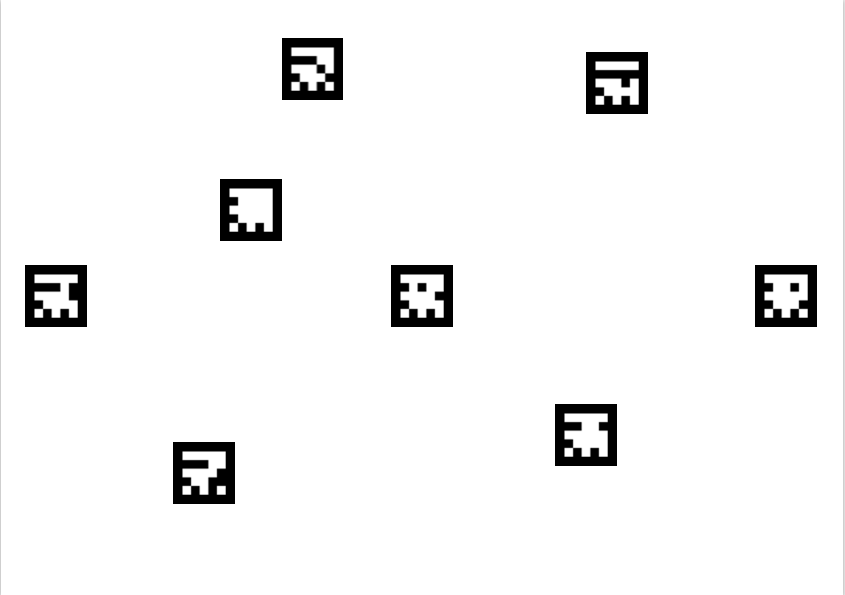
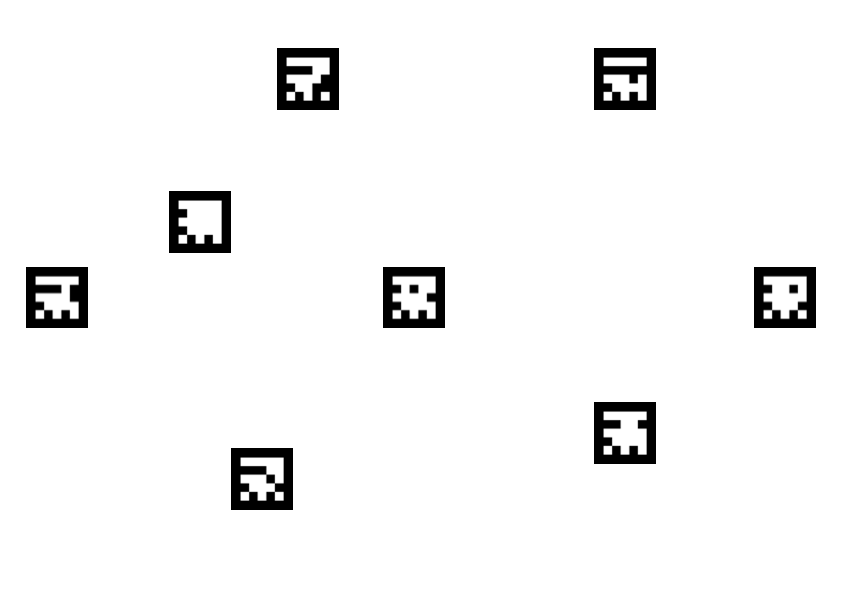
#6 Mudança de campo e troca de posição de jogadores

diff --git a/src/game/game.js b/src/game/game.js
@@ -393,13 +393,13 @@ function verifyCollision() {
     }
 
     //COLISAO COM O GOL
-    if(markers[i].id == GOAL_ONE_ID && ball.x > AXIS_X-BALL_SIZE/2 && ball.y-BALL_SIZE/2 > markers[i].y-GOAL_HEIGHT/2 && ball.y+BALL_SIZE/2 < markers[i].y+GOAL_HEIGHT/2) {
-      disparaEventoGolJogador(PLAYER_TWO_ID);
+    if(markers[i].id == GOAL_TWO_ID && ball.x > AXIS_X-BALL_SIZE/2 && ball.y-BALL_SIZE/2 > markers[i].y-GOAL_HEIGHT/2 && ball.y+BALL_SIZE/2 < markers[i].y+GOAL_HEIGHT/2) {
+      disparaEventoGolJogador(PLAYER_ONE_ID);
       break;
     }
 
-    if (markers[i].id == GOAL_TWO_ID && ball.x < 0+BALL_SIZE/2 && ball.y-BALL_SIZE/2 > markers[i].y-GOAL_HEIGHT/2 && ball.y+BALL_SIZE/2 < markers[i].y+GOAL_HEIGHT/2) {
-      disparaEventoGolJogador(PLAYER_ONE_ID);
+    if (markers[i].id == GOAL_ONE_ID && ball.x < 0+BALL_SIZE/2 && ball.y-BALL_SIZE/2 > markers[i].y-GOAL_HEIGHT/2 && ball.y+BALL_SIZE/2 < markers[i].y+GOAL_HEIGHT/2) {
+      disparaEventoGolJogador(PLAYER_TWO_ID);
       break;
     }
 

diff --git a/index.html b/index.html
@@ -25,6 +25,6 @@
     <canvas id='gameField' width='640' height='480'> </canvas>
 
     <img id="grass" src="resources/grass.jpg" width="640" height="480" style="display:none;"/>
-    <img id="mock" src="resources/teste.png" width="640" height="480" style="display:none;"/>
+    <img id="mock" src="resources/teste2.png" width="640" height="480" style="display:none;"/>
   </div>
 </html>

diff --git a/src/game/detector.js b/src/game/detector.js
@@ -24,6 +24,7 @@ window.onload = function() {
   var canvas = document.createElement('canvas');
   canvas.width = AXIS_X;
   canvas.height = AXIS_Y;
+  canvas.style = 'display:none';
   var raster = new NyARRgbRaster_Canvas2D(canvas);
   document.body.appendChild(canvas);
 
